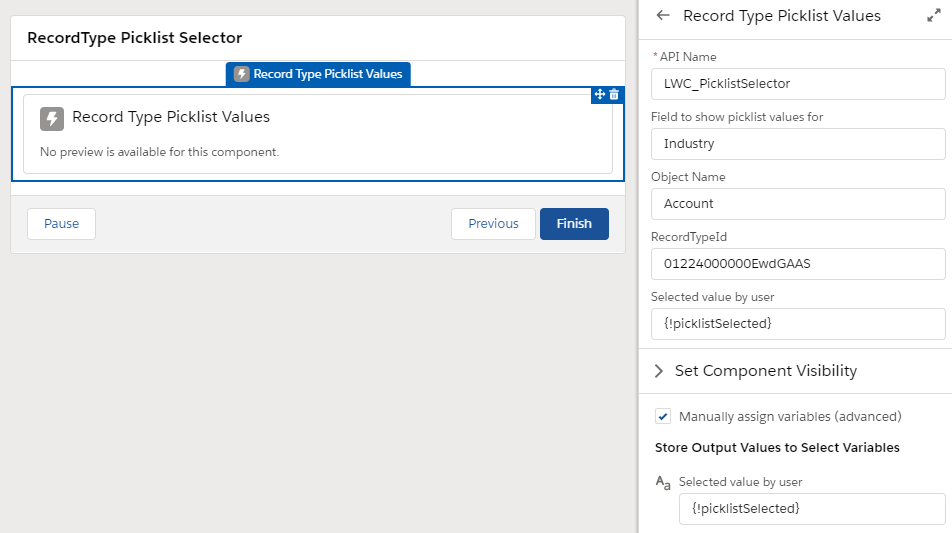
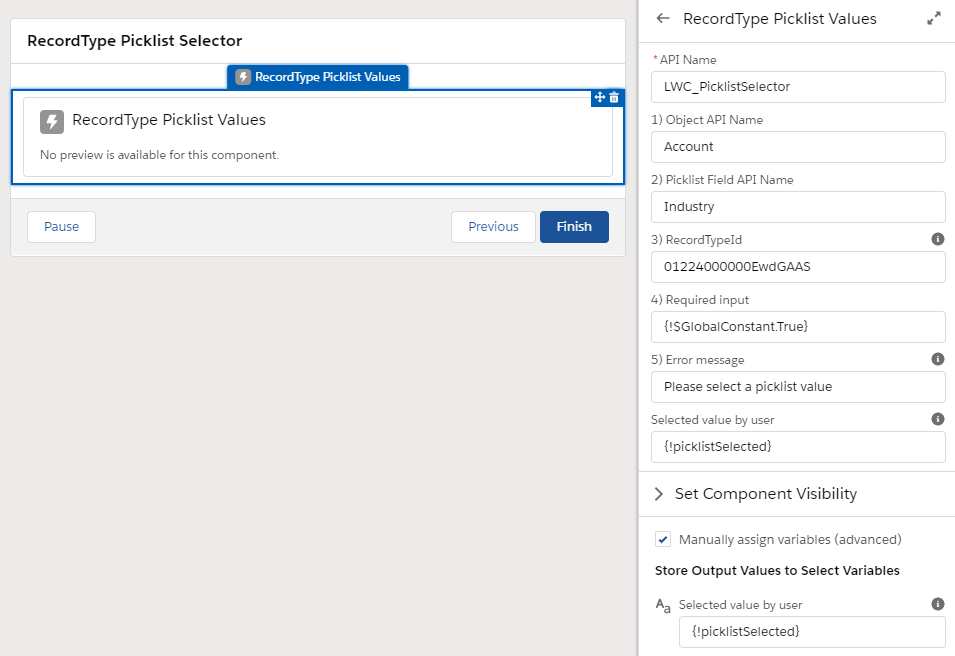
2020-06-16: Enrich component with isRequired and errorMessage input parameters
* recordTypePicklistValues.html: Conditional required input
* recordTypePicklistValues.js: Adding new input parameters, conditional validation (message) & minor syntax changes
* recordTypePicklistValues.js-meta.xml: Updating input parameters (set integer for proper ordering in Builders)
* README.md: Added input parameters and included Salesforce IDEA

diff --git a/src/lwc/recordTypePicklistValues/recordTypePicklistValues.js b/src/lwc/recordTypePicklistValues/recordTypePicklistValues.js
@@ -8,6 +8,7 @@
 import { LightningElement, api } from 'lwc';
 
 export default class RecordType_PicklistValues extends LightningElement {
+    /* Required Attributes */
     // {String} API Name of Object
     @api objectName;
     // {String} API Name of Picklist value (for this specific Object)
@@ -15,17 +16,25 @@ export default class RecordType_PicklistValues extends LightningElement {
     // {String} Id of RecordType the picklist values should be restricted with
     @api recordTypeId;
 
+    /* Optional Attributes */
+    // {Boolean} Whether or not the input is required
+    @api isRequired;
+    // {String} Error message non selected
+    @api errorMessage;
+
+    /* Output Attributes */
     // {String} API value of selected picklist value (not the label, but the value)
     @api fieldValue;
 
     // {Validation} Function Lightning Flows execute on 'next'-button to validate whether component is valid
     @api validate() {
-        if( this.fieldValue && this.fieldValue.length > 0 ) {
+        if( !this.isRequired
+            || ( this.isRequired && this.fieldValue && this.fieldValue.length > 0 ) ){
             return { isValid: true };
         } else {
             return {
                 isValid: false,
-                errorMessage: 'Please select a picklist value' /** Move to custom label */
+                errorMessage: this.errorMessage
              };
          }
     }

diff --git a/src/lwc/recordTypePicklistValues/recordTypePicklistValues.html b/src/lwc/recordTypePicklistValues/recordTypePicklistValues.html
@@ -1,5 +1,5 @@
 <template>
     <lightning-record-edit-form object-api-name={objectName} record-type-id={recordTypeId} >
-        <lightning-input-field field-name={fieldName} value={fieldValue} required onchange={handleFieldChange} ></lightning-input-field>
+        <lightning-input-field field-name={fieldName} value={fieldValue} required={isRequired} onchange={handleFieldChange} ></lightning-input-field>
     </lightning-record-edit-form>
 </template>

diff --git a/README.md b/README.md
@@ -7,7 +7,7 @@ Allowing distinction in business processes and guiding an end-user through that 
 
 Unfortunately, those restrictions aren't always satisfied by Salesforce, e.g. in:
 
-* Dynamic Picklist Choices in Lightning Flows
+* Dynamic Picklist Choices in Lightning Flows ([SF Idea](https://success.salesforce.com/ideaView?id=08730000000cFUuAAM))
 
 ## Solution
 This Lightning Web Component retrieves and displays the picklist values which are valid for the provided RecordTypeId,
@@ -22,9 +22,11 @@ The Custom Label should be provided for this one.
 
 | Variable | Description |
 | --- | --- |
-| ObjectName | API name of Object |
-| FieldName | API name of the Picklist Field on the corresponding Object |
-| RecordTypeId | Id of RecordType to restrict the picklist values with (e.g. from current record, or retrieved to create new record ) |
+| objectName | API name of Object |
+| fieldName | API name of Picklist Field on corresponding Object |
+| recordTypeId | Id of RecordType to restrict picklist values with (e.g. retrieve from current record, or retrieved to create new record ) |
+| isRequired | Whether input field is required |
+| errorMessage | Error message to show in front-end when field required and not provided (e.g. retrieve from CustomLabel via Formula) |
 
 ### Output:
 
@@ -35,8 +37,9 @@ The Custom Label should be provided for this one.
 ## Screenshots
 
 Configuration in Flow, configuring input and output variables.
-* The input in the screenshot is purely for documentation purposes to show the correct format.
-* NEVER put hard-coded (RecordType) Ids, always retrieve dynamically from a record {!sObj_Account.RecordTypeId} or from server {!Get_RetrieveRecordType.Id}.
+* The input in the screenshot is purely for documentation purposes to show the correct format;
+* NEVER put hard-coded (RecordType) Ids, always retrieve dynamically from a record {!sObj_Account.RecordTypeId} or from server {!Get_RetrieveRecordType.Id};
+* Likewise it is recommended to fetch a CustomLabel in Flow and provide that into the component.
 
 ![Initial screen](screenshots/RecordTypePicklistValueSelector_FlowConfig.png)
 
